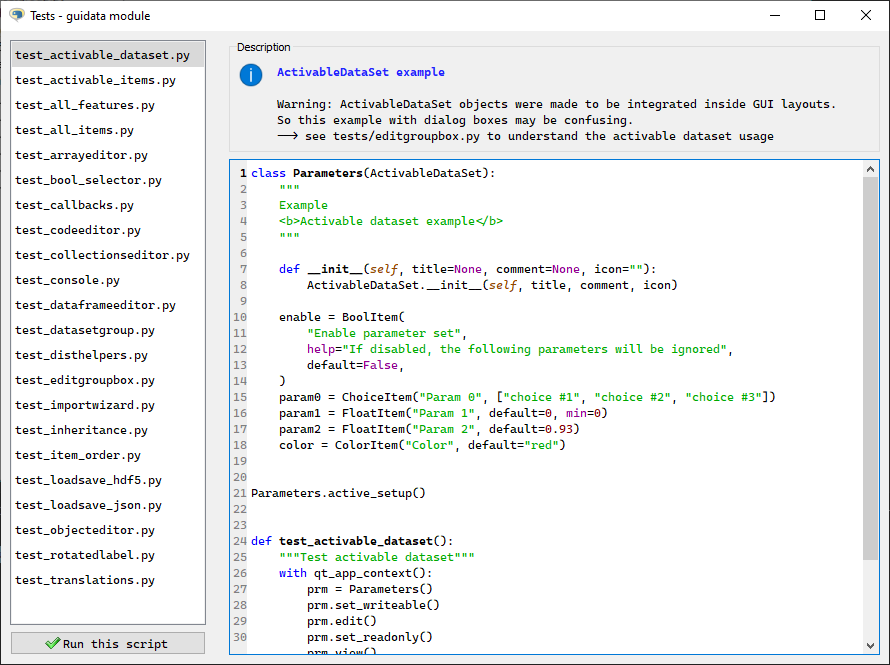
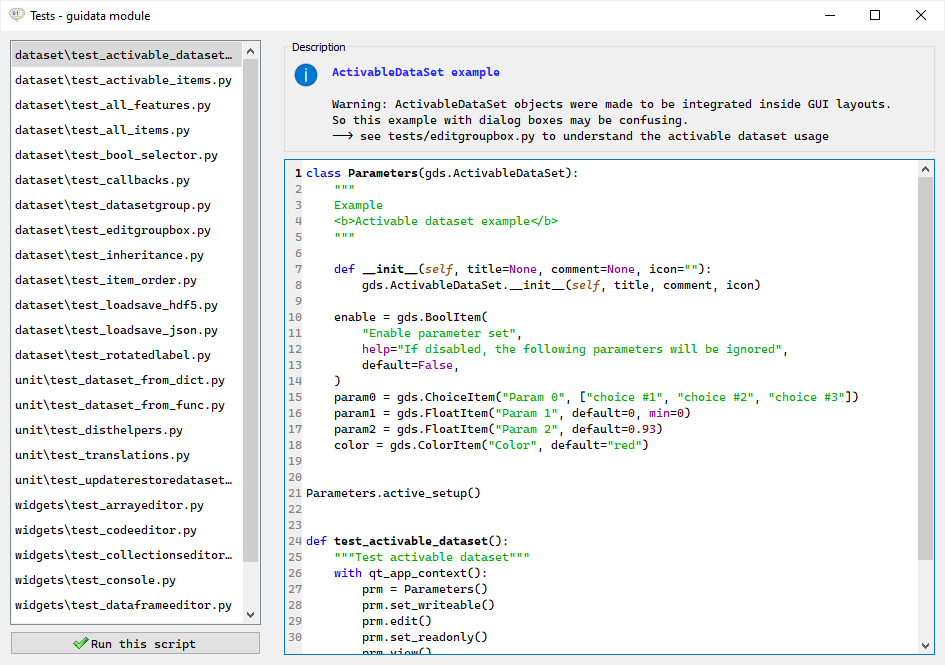
Doc: added ready-to-use widgets, updated shots

diff --git a/doc/examples.rst b/doc/examples.rst
@@ -1,7 +1,7 @@
 .. _examples:
 
-Examples
-========
+Data set examples
+=================
 
 Basic example
 -------------
@@ -26,7 +26,7 @@ The two lines above execute the `guidata test launcher` :
 All :mod:`guidata` items demo
 ^^^^^^^^^^^^^^^^^^^^^^^^^^^^^
 
-.. literalinclude:: ../guidata/tests/test_all_items.py
+.. literalinclude:: ../guidata/tests/dataset/test_all_items.py
    :start-after: guitest:
 
 .. image:: images/screenshots/all_items.png
@@ -34,7 +34,7 @@ All :mod:`guidata` items demo
 All (GUI-related) :mod:`guidata` features demo
 ^^^^^^^^^^^^^^^^^^^^^^^^^^^^^^^^^^^^^^^^^^^^^^
 
-.. literalinclude:: ../guidata/tests/test_all_features.py
+.. literalinclude:: ../guidata/tests/dataset/test_all_features.py
    :start-after: guitest:
 
 .. image:: images/screenshots/all_features.png
@@ -42,7 +42,7 @@ All (GUI-related) :mod:`guidata` features demo
 Embedding guidata objects in GUI layouts
 ^^^^^^^^^^^^^^^^^^^^^^^^^^^^^^^^^^^^^^^^
 
-.. literalinclude:: ../guidata/tests/test_editgroupbox.py
+.. literalinclude:: ../guidata/tests/dataset/test_editgroupbox.py
    :start-after: guitest:
 
 .. image:: images/screenshots/editgroupbox.png
@@ -50,7 +50,7 @@ Embedding guidata objects in GUI layouts
 Data item groups and group selection
 ^^^^^^^^^^^^^^^^^^^^^^^^^^^^^^^^^^^^
 
-.. literalinclude:: ../guidata/tests/test_bool_selector.py
+.. literalinclude:: ../guidata/tests/dataset/test_bool_selector.py
    :start-after: guitest:
 
 .. image:: images/screenshots/bool_selector.png
@@ -58,7 +58,7 @@ Data item groups and group selection
 Activable data sets
 ^^^^^^^^^^^^^^^^^^^
 
-.. literalinclude:: ../guidata/tests/test_activable_dataset.py
+.. literalinclude:: ../guidata/tests/dataset/test_activable_dataset.py
    :start-after: guitest:
 
 .. image:: images/screenshots/activable_dataset.png
@@ -66,7 +66,7 @@ Activable data sets
 Data set groups
 ^^^^^^^^^^^^^^^
 
-.. literalinclude:: ../guidata/tests/test_datasetgroup.py
+.. literalinclude:: ../guidata/tests/dataset/test_datasetgroup.py
    :start-after: guitest:
 
 .. image:: images/screenshots/datasetgroup.png
@@ -77,29 +77,29 @@ Utilities
 Update/restore a dataset from/to a dictionary
 ~~~~~~~~~~~~~~~~~~~~~~~~~~~~~~~~~~~~~~~~~~~~~
 
-.. literalinclude:: ../guidata/tests/test_updaterestoredataset.py
+.. literalinclude:: ../guidata/tests/unit/test_updaterestoredataset.py
    :start-after: guitest:
 
 Create a dataset class from a function signature
 ~~~~~~~~~~~~~~~~~~~~~~~~~~~~~~~~~~~~~~~~~~~~~~~~
 
-.. literalinclude:: ../guidata/tests/test_dataset_from_func.py
+.. literalinclude:: ../guidata/tests/unit/test_dataset_from_func.py
    :start-after: guitest:
 
 Create a dataset class from a function dictionary
 ~~~~~~~~~~~~~~~~~~~~~~~~~~~~~~~~~~~~~~~~~~~~~~~~~
 
-.. literalinclude:: ../guidata/tests/test_dataset_from_dict.py
+.. literalinclude:: ../guidata/tests/unit/test_dataset_from_dict.py
    :start-after: guitest:
 
 Data set HDF5 serialization/deserialization
 ^^^^^^^^^^^^^^^^^^^^^^^^^^^^^^^^^^^^^^^^^^^
 
-.. literalinclude:: ../guidata/tests/test_loadsave_hdf5.py
+.. literalinclude:: ../guidata/tests/dataset/test_loadsave_hdf5.py
    :start-after: guitest:
 
 Data set JSON serialization/deserialization
 ^^^^^^^^^^^^^^^^^^^^^^^^^^^^^^^^^^^^^^^^^^^
 
-.. literalinclude:: ../guidata/tests/test_loadsave_json.py
+.. literalinclude:: ../guidata/tests/dataset/test_loadsave_json.py
    :start-after: guitest:

diff --git a/doc/widgets.rst b/doc/widgets.rst
@@ -1,0 +1,63 @@
+.. _widgets:
+
+Ready-to-use widgets
+====================
+
+As a complement to the :py:mod:`guidata.dataset` module which focus on automatic
+GUI generation for data sets editing and display, the :py:mod:`guidata.widgets`
+module provides a set of ready-to-use widgets for building interactive GUIs.
+
+.. note:: Most of the widgets originally come from the `Spyder`_ project
+          (Copyright © Spyder Project Contributors, MIT-licensed). They were
+          adapted to be used outside of the Spyder IDE and to be compatible with
+          guidata internals.
+
+.. _Spyder: https://github.com/spyder-ide/spyder
+
+Python console
+--------------
+
+.. literalinclude:: ../guidata/tests/widgets/test_console.py
+   :start-after: guitest:
+
+.. image:: images/screenshots/console.png
+
+Code editor
+-----------
+
+.. literalinclude:: ../guidata/tests/widgets/test_codeeditor.py
+   :start-after: guitest:
+
+.. image:: images/screenshots/codeeditor.png
+
+Array editor
+------------
+
+.. literalinclude:: ../guidata/tests/widgets/test_arrayeditor.py
+   :start-after: guitest:
+
+.. image:: images/screenshots/arrayeditor.png
+
+Collection editor
+-----------------
+
+.. literalinclude:: ../guidata/tests/widgets/test_collectionseditor.py
+   :start-after: guitest:
+
+.. image:: images/screenshots/collectioneditor.png
+
+Dataframe editor
+----------------
+
+.. literalinclude:: ../guidata/tests/widgets/test_dataframeeditor.py
+   :start-after: guitest:
+
+.. image:: images/screenshots/dataframeeditor.png
+
+Import wizard
+-------------
+
+.. literalinclude:: ../guidata/tests/widgets/test_importwizard.py
+   :start-after: guitest:
+
+.. image:: images/screenshots/importwizard.png

diff --git a/doc/overview.rst b/doc/overview.rst
@@ -41,8 +41,10 @@ This library aims to provide these features thanks to automatic graphical user
 interface generation for data set editing and display. Widgets inside GUIs are
 automatically generated depending on each data item type.
 
-The :mod:`guidata` library also provides the following features:
+The :mod:`guidata` library provides the following modules:
 
+* :py:mod:`guidata.dataset`: data set definition and manipulation
+* :py:mod:`guidata.widgets`: ready-to-use Qt widgets (console, code editor, array editor, etc.)
 * :py:mod:`guidata.qthelpers`: Qt helpers
 * :py:mod:`guidata.configtools`: library/application data management
 * :py:mod:`guidata.guitest`: automatic GUI-based test launcher

diff --git a/doc/index.rst b/doc/index.rst
@@ -5,8 +5,9 @@ Welcome to :mod:`guidata`'s documentation!
     :align: center
 
 Based on the Qt library :mod:`guidata` is a Python library generating graphical
-user interfaces for easy dataset editing and display. It also provides helpers
-and application development tools for Qt.
+user interfaces for easy dataset editing and display. It also provides :ref:`widgets`
+(Python console, code editor, array editor, etc. - see ), helpers and application
+development tools for Qt.
 
 .. figure:: images/layout_example.png
     :class: invert-in-dark-mode
@@ -33,6 +34,7 @@ Table of contents
    overview
    installation
    examples
+   widgets
    dev/index
    reference/index
 
